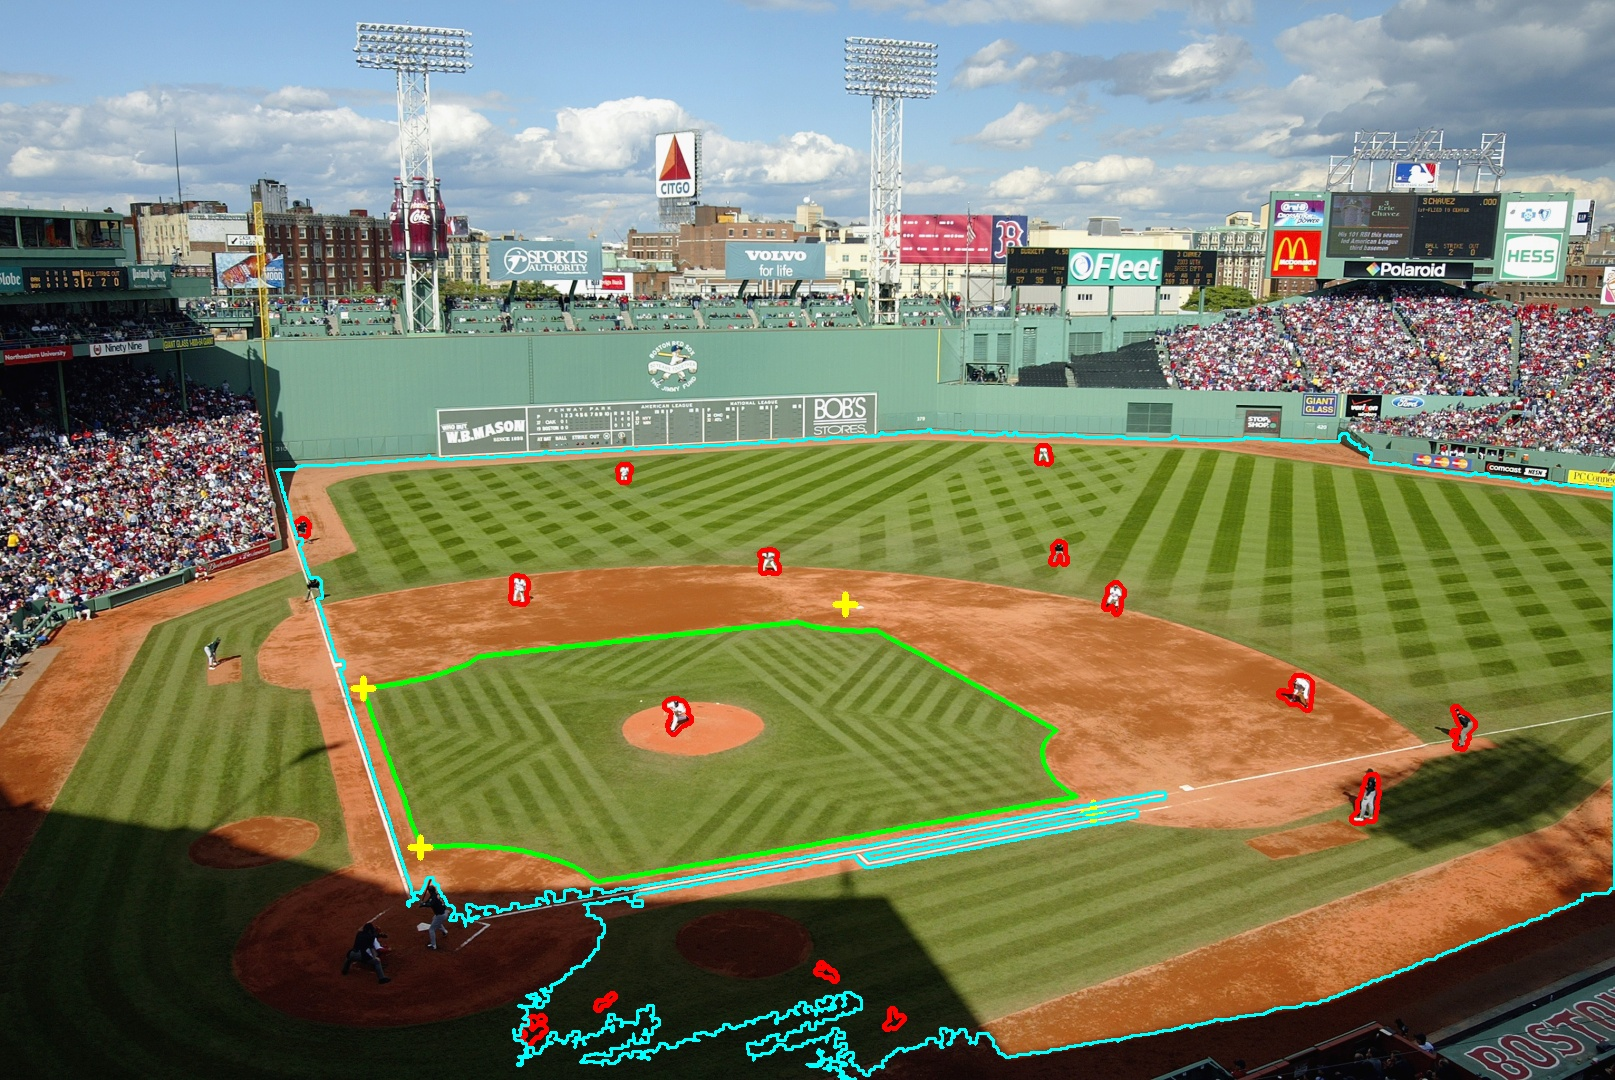
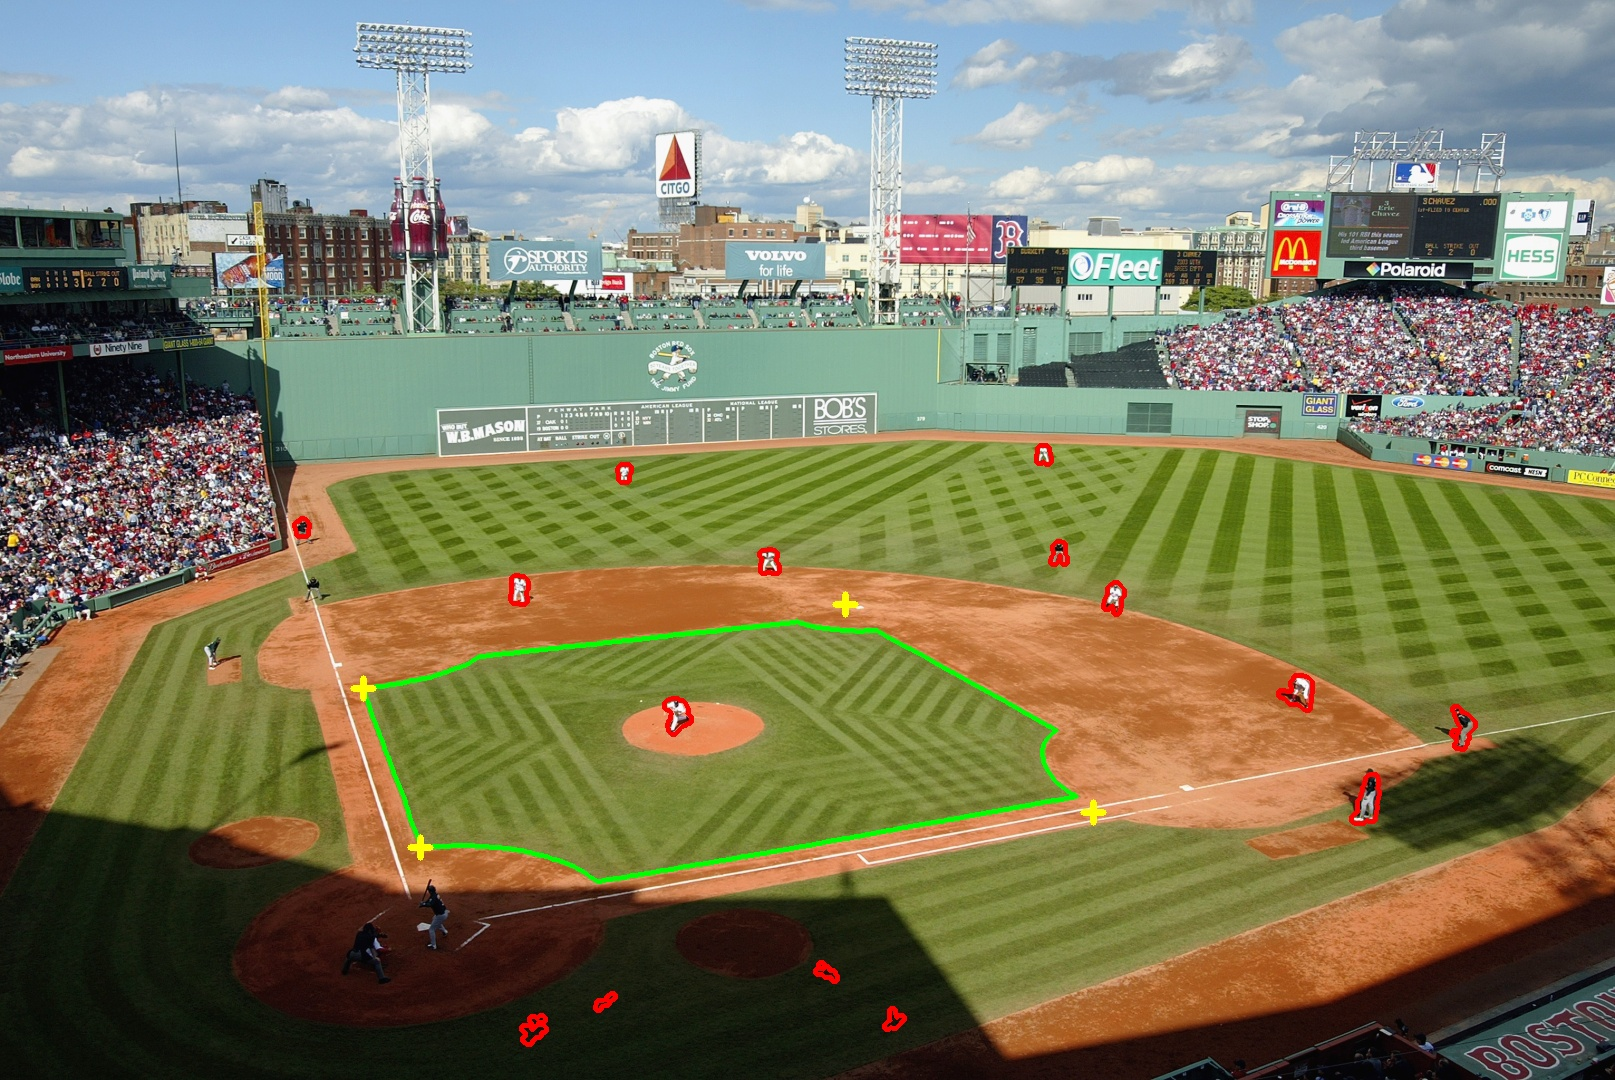
Clean up image drawing and add documentation overviews

diff --git a/TestPersonDetection/personDetectionTesting.py b/TestPersonDetection/personDetectionTesting.py
@@ -2,19 +2,19 @@
 
 import os.path
 import cv2
-import numpy
+from numpy import array, uint8, ones
 import infieldFittingRoutines
 
 class PlayerFinder(object):
     def __init__(self):
-        self.lower_green = numpy.array((17, 50, 20), dtype=numpy.uint8)
-        self.upper_green = numpy.array((72, 255, 242), dtype=numpy.uint8)
+        self.lower_green = array((17, 50, 20), dtype=uint8)
+        self.upper_green = array((72, 255, 242), dtype=uint8)
 
-        self.lower_brown = numpy.array((7, 80, 25), dtype=numpy.uint8)
-        self.upper_brown = numpy.array((27, 255, 255), dtype=numpy.uint8)
+        self.lower_brown = array((7, 80, 25), dtype=uint8)
+        self.upper_brown = array((27, 255, 255), dtype=uint8)
 
-        self.lower_dark_brown = numpy.array((2, 93, 25), dtype=numpy.uint8)
-        self.upper_dark_brown = numpy.array((10, 175, 150), dtype=numpy.uint8)
+        self.lower_dark_brown = array((2, 93, 25), dtype=uint8)
+        self.upper_dark_brown = array((10, 175, 150), dtype=uint8)
 
         self.player_contours = None
         self.top_players = None
@@ -24,8 +24,6 @@ class PlayerFinder(object):
         self.top_infield = None
         self.infield = None
         self.infield_cnrs = None
-
-        self.fieldDraw = None
 
         return
 
@@ -40,10 +38,21 @@ class PlayerFinder(object):
         self.infield_cnrs = None
 
     def process_image(self, image):
-        '''Main image processing routine'''
+        '''Main image processing routine
         
-        #converting into hsv image
+        1. Reset all central class variables to make sure the last image's processing data is cleared out
+        2. Convert color from BGR to HSV
+        3. Find all the pixels in the image that are a specific shade of green or brown to identify the field and dirt
+        4. Find the location of the bases
+        5. Find the location of the players
+        6. Calculate the ideal location of each of the players' positions
+        7. Assign each player an expected position
+        8. RETURN each players' bottom point and their corresponding position
+        '''
+        
         self.reset_variables()
+
+        #converting into hsv image
         hsv = cv2.cvtColor(image, cv2.COLOR_BGR2HSV)
 
         #Define a mask ranging from lower to uppper
@@ -62,8 +71,19 @@ class PlayerFinder(object):
  
         return image
     
-    def get_infield_cnrs(self, mask, image):    #array return order: home, first, second, third
-        erosion = cv2.erode(mask, numpy.ones((4, 4), numpy.uint8), iterations = 1)
+    def get_infield_cnrs(self, mask, image):
+        '''Sub-processing routine to find the location of the bases
+
+        1. Erode the image to get rid of small impurities
+        2. Find all contours that are formed by the green mask
+        3. Choose the contours that are between a certain bounding box area
+        4. Choose the contours that have a certain (height/width) ratio, the smallest bounding box width, and an exact area above a certain threshold
+                --> the expected infield outline
+        5. Fit a quadrilateral around the infield grass
+        6. RETURN the corners of the quadrilateral (TODO: array return order: home, first, second, third)
+        '''
+
+        erosion = cv2.erode(mask, ones((4, 4), uint8), iterations = 1)
         _, self.infield_contours, _ = cv2.findContours(erosion, cv2.RETR_TREE, cv2.CHAIN_APPROX_SIMPLE)
 
         infield_contour_list = self.area_cut(self.infield_contours, 18500, 2000000)
@@ -87,12 +107,21 @@ class PlayerFinder(object):
         # to find quadrilateral using hough_fit method
         cnrs = self.quad_fit(self.infield, image_frame=image)
         if cnrs is not None:
-            self.infield_cnrs = numpy.array(cnrs).astype(int)
+            self.infield_cnrs = array(cnrs).astype(int)
         
         return image
             
     def get_player_contours(self, mask):
-        erosion = cv2.erode(mask, numpy.ones((5,5), numpy.uint8), iterations = 1)   
+        '''Sub-processing routine to find the location of the players on the field
+
+        1. Erode the image to get rid of small impurities
+        2. Find all contours that are formed by the green mask
+        3. Choose the contours that are between a certain bounding box area
+        4. Choose the contours that have a certain (height/width) ratio and actually are located on the field
+        '''
+
+
+        erosion = cv2.erode(mask, ones((5,5), uint8), iterations = 1)   
         _, self.player_contours, _ = cv2.findContours(erosion, cv2.RETR_TREE, cv2.CHAIN_APPROX_SIMPLE)
         
         field = None
@@ -110,35 +139,40 @@ class PlayerFinder(object):
             
         # Sort the list of contours from biggest area to smallest
         contour_list.sort(key=lambda c: c['widths'][0] * c['widths'][1], reverse=True)
-
-        self.fieldDraw = field['contour']
-
-        self.top_players = [x['contour'] for x in contour_list]
         
-        self.players = []
+        self.top_players = []
 
         for player in contour_list:
             width = player['widths'][0]
             height = player['widths'][1]
             ratio = height / width
 
-            if ratio >= 0.8 and ratio <= 3.0:# and cv2.contourArea(player['contour']) > 200:
-                self.players.append(player)
+            if ratio >= 0.8 and ratio <= 3.0:
+                self.top_players.append(player)
 
-        if len(self.players) == 0:
-            self.players = None
+        if len(self.top_players) == 0:
+            self.top_players = None
             return
 
-        final_players = []
+        self.players = []
 
-        for candidate in self.players:
+        for candidate in self.top_players:
             if self.isCandidatePlayerOnField(candidate['center'], field):
-                final_players.append(candidate)
-        self.players = [x['contour'] for x in final_players]
+                self.players.append(candidate['contour'])
+
+        self.top_players = [x['contour'] for x in self.top_players]
 
     def isCandidatePlayerOnField(self, candidateCenterPt, fieldInfo):
-        width = int( fieldInfo['widths'][0] / 2 ) + 1   # +1 to round up
-        height = int( fieldInfo['widths'][1] / 2 ) + 1
+        '''Helper method to check is a candidate player is located on the field
+
+        1. Check if the candidate player's center point is within the field's bounding box 
+            (much faster than the opencv method, so if it isn't in the bounding box it's a quick reliable way to return false)
+        2. Check if the center point is actually inside the field contour
+        3. RETURN true if the result is positive
+        '''
+
+        width = int( fieldInfo['widths'][0] / 2 )
+        height = int( fieldInfo['widths'][1] / 2 )
         centerx = fieldInfo['center'][0]
         centery = fieldInfo['center'][1]
 
@@ -154,6 +188,8 @@ class PlayerFinder(object):
         return True
 
     def area_cut(self, cnts, min_area, max_area):
+        '''Helper method for a generic contour area cut according to its bounding box'''
+
         contour_list = []
         for c in cnts:
             center, widths = self.contour_center_width(c)
@@ -215,12 +251,8 @@ class PlayerFinder(object):
         if self.infield_cnrs is not None:
             for cnr in self.infield_cnrs:
                 cv2.drawMarker(output_frame, tuple(cnr), (0, 255, 255), cv2.MARKER_CROSS, 20, 5)
-
-        if self.fieldDraw is not None:
-            cv2.drawContours(output_frame, [self.fieldDraw], -1, (255, 255, 0), 2)
         
         return output_frame
-
 
 def process_files(processor, input_files, output_dir):
     '''Process the files and output the marked up image'''
@@ -229,7 +261,7 @@ def process_files(processor, input_files, output_dir):
     for image_file in input_files:
         bgr_frame = cv2.imread(image_file)
 
-        #-----------------------------resize:
+        #-----------------------------resize original image:
         new_height = 1080   # This is the pixel dimensions of the standard iphone 8 camera setting (1080p HD)
         # Makes sure all images are the same height --> same relative player sizes so that contour cuttoffs can be accurate
 
@@ -246,13 +278,9 @@ def process_files(processor, input_files, output_dir):
         markup = processor.prepare_output_image(resized)
 
         outfile = os.path.join(output_dir, os.path.basename(image_file))
-        # print('{} -> {}'.format(image_file, outfile))
+
         cv2.imwrite(outfile, markup)
 
-        # cv2.imshow("Window", bgr_frame)
-        # q = cv2.waitKey(-1) & 0xFF
-        # if q == ord('q'):
-        #     break
     return
 
 def main():

diff --git a/TestPersonDetection/infieldFittingRoutines.py b/TestPersonDetection/infieldFittingRoutines.py
@@ -2,17 +2,15 @@
 
 # Use the Hough line algorithm to fix a contour
 
-# See bottom of this file for some timing results
-
-import cv2
+from cv2 import boundingRect, drawContours, HoughLines, arcLength, approxPolyDP, line
 
 # it is faster if you import the needed functions directly
 # these are used a lot, so it helps, a little
 from math import sin, cos, atan2, degrees
-import numpy
+from numpy import pi, array, zeros, uint8, sqrt
 
-two_pi = 2.0 * numpy.pi
-pi_by_2 = numpy.pi / 2.0
+two_pi = 2.0 * pi
+pi_by_2 = pi / 2.0
 
 
 def hough_fit(contour, nsides=None, approx_fit=None, image_frame=None):
@@ -25,15 +23,15 @@ def hough_fit(contour, nsides=None, approx_fit=None, image_frame=None):
     
     nsides = len(approx_fit)
 
-    x, y, w, h = cv2.boundingRect(contour)
-    offset_vec = numpy.array((x, y))
+    x, y, w, h = boundingRect(contour)
+    offset_vec = array((x, y))
 
     shifted_con = contour - offset_vec
 
     # the binning does affect the speed, so tune it....
-    contour_plot = numpy.zeros(shape=(h, w), dtype=numpy.uint8)
-    cv2.drawContours(contour_plot, [shifted_con, ], -1, 255, 1)
-    lines = cv2.HoughLines(contour_plot, 1, numpy.pi / 180, threshold=8)
+    contour_plot = zeros(shape=(h, w), dtype=uint8)
+    drawContours(contour_plot, [shifted_con, ], -1, 255, 1)
+    lines = HoughLines(contour_plot, 1, pi / 180, threshold=8)
 
     """if image_frame is not None:      #for debugging
         print('hough lines:')
@@ -54,7 +52,8 @@ def hough_fit(contour, nsides=None, approx_fit=None, image_frame=None):
 
     if res is None:
         return get_cnrs_using_extreme_pts(contour)
-    return numpy.array(res) + offset_vec
+    
+    return array(res) + offset_vec
 
 
 def approxPolyDP_adaptive(contour, nsides, max_dp_error=0.1):
@@ -63,10 +62,10 @@ def approxPolyDP_adaptive(contour, nsides, max_dp_error=0.1):
     The results seem to often be a little wrong, but they are a quick starting point.'''
 
     step = 0.0005
-    peri = cv2.arcLength(contour, True)
+    peri = arcLength(contour, True)
     dp_err = step
     while dp_err <= max_dp_error:
-        res = cv2.approxPolyDP(contour, dp_err * peri, True)
+        res = approxPolyDP(contour, dp_err * peri, True)
         if len(res) <= nsides:
             # print('approxPolyDP_adaptive found at step', step)
             return res
@@ -88,17 +87,14 @@ def plot_hough_line(frame, rho, theta, color=(0, 0, 255), thickness=1, offset=No
         pt1[1] += offset[1]
         pt2[0] += offset[0]
         pt2[1] += offset[1]
-    cv2.line(frame, tuple(pt1), tuple(pt2), color, thickness)
+    line(frame, tuple(pt1), tuple(pt2), color, thickness)
     return
-
-
-
 
 def _match_lines_to_fit(approx_fit, hough_lines, w, h):
     '''Given the approximate shape and a set of lines from the Hough algorithm
     find the matching lines and rebuild the fit'''
 
-    theta_thres = numpy.pi / 9  # 20 degrees
+    theta_thres = pi / 9  # 20 degrees
     nsides = len(approx_fit)
     fit_sides = []
     hough_used = set()
@@ -121,7 +117,7 @@ def _match_lines_to_fit(approx_fit, hough_lines, w, h):
             # So test them both.
 
             if (abs(rho - line[0]) < 10 and abs(_delta_angle(theta, line[1])) < theta_thres) or \
-               (abs(rho + line[0]) < 10 and abs(_delta_angle(theta, line[1] - numpy.pi)) < theta_thres):
+               (abs(rho + line[0]) < 10 and abs(_delta_angle(theta, line[1] - pi)) < theta_thres):
                 fit_sides.append(line)
                 hough_used.add(ih)
                 # print('  matched:', ih, line[0], degrees(line[1]))
@@ -144,7 +140,7 @@ def _match_lines_to_fit(approx_fit, hough_lines, w, h):
 
 def _delta_angle(a, b):
     d = a - b
-    return (d + numpy.pi) % two_pi - numpy.pi
+    return (d + pi) % two_pi - pi
 
 def _intersection(line1, line2):
     """Finds the intersection of two lines given in Hesse normal form.
@@ -167,9 +163,8 @@ def _intersection(line1, line2):
     denom = cos1*sin2 - sin1*cos2
     x = (sin2*rho1 - sin1*rho2) / denom
     y = (cos1*rho2 - cos2*rho1) / denom
-    res = numpy.array((x, y))
+    res = array((x, y))
     return res
-
 
 def _hesse_form(pt1, pt2):
     '''Compute the Hesse form for the line through the points'''
@@ -178,7 +173,7 @@ def _hesse_form(pt1, pt2):
     mag2 = delta.dot(delta)
     vec = pt2 - pt2.dot(delta) * delta / mag2
 
-    rho = numpy.sqrt(vec.dot(vec))
+    rho = sqrt(vec.dot(vec))
     if abs(rho) < 1e-6:
         # through 0. Need to compute theta differently
         theta = atan2(delta[1], delta[0]) + pi_by_2
@@ -189,13 +184,13 @@ def _hesse_form(pt1, pt2):
 
     return rho, theta
 
-def get_cnrs_using_extreme_pts(contour):
+def get_cnrs_using_extreme_pts(contour):    #works if on lower 1st base or 3rd base side of the stands
     miny = min(contour, key=lambda x: x[0][1])[0]   #min y coord (highest)
     maxy = max(contour, key=lambda x: x[0][1])[0]    #max y coord (lowest)
     height = maxy[1] - miny[1]
 
     #order: top left, top right, bottom right, bottom left
-    cnrs = numpy.array([maxy, maxy, miny, miny])        #array shape is [[0, 0], [0, 0], [0, 0], [0, 0]]
+    cnrs = array([maxy, maxy, miny, miny])        #array shape is [[0, 0], [0, 0], [0, 0], [0, 0]]
 
     dy_top = int(height / 5.5)  #for image7: 10
     dy_bottom = int(height / 2.75)  #for image7: 20
@@ -256,8 +251,6 @@ class SlopeInfo:        #TODO include at least one pt to find the line equation
     def slope(pt_a, pt_b):
         return (pt_a[1] - pt_b[1]) / (pt_a[0] - pt_b[0])
 """
-
-
 
 
 
